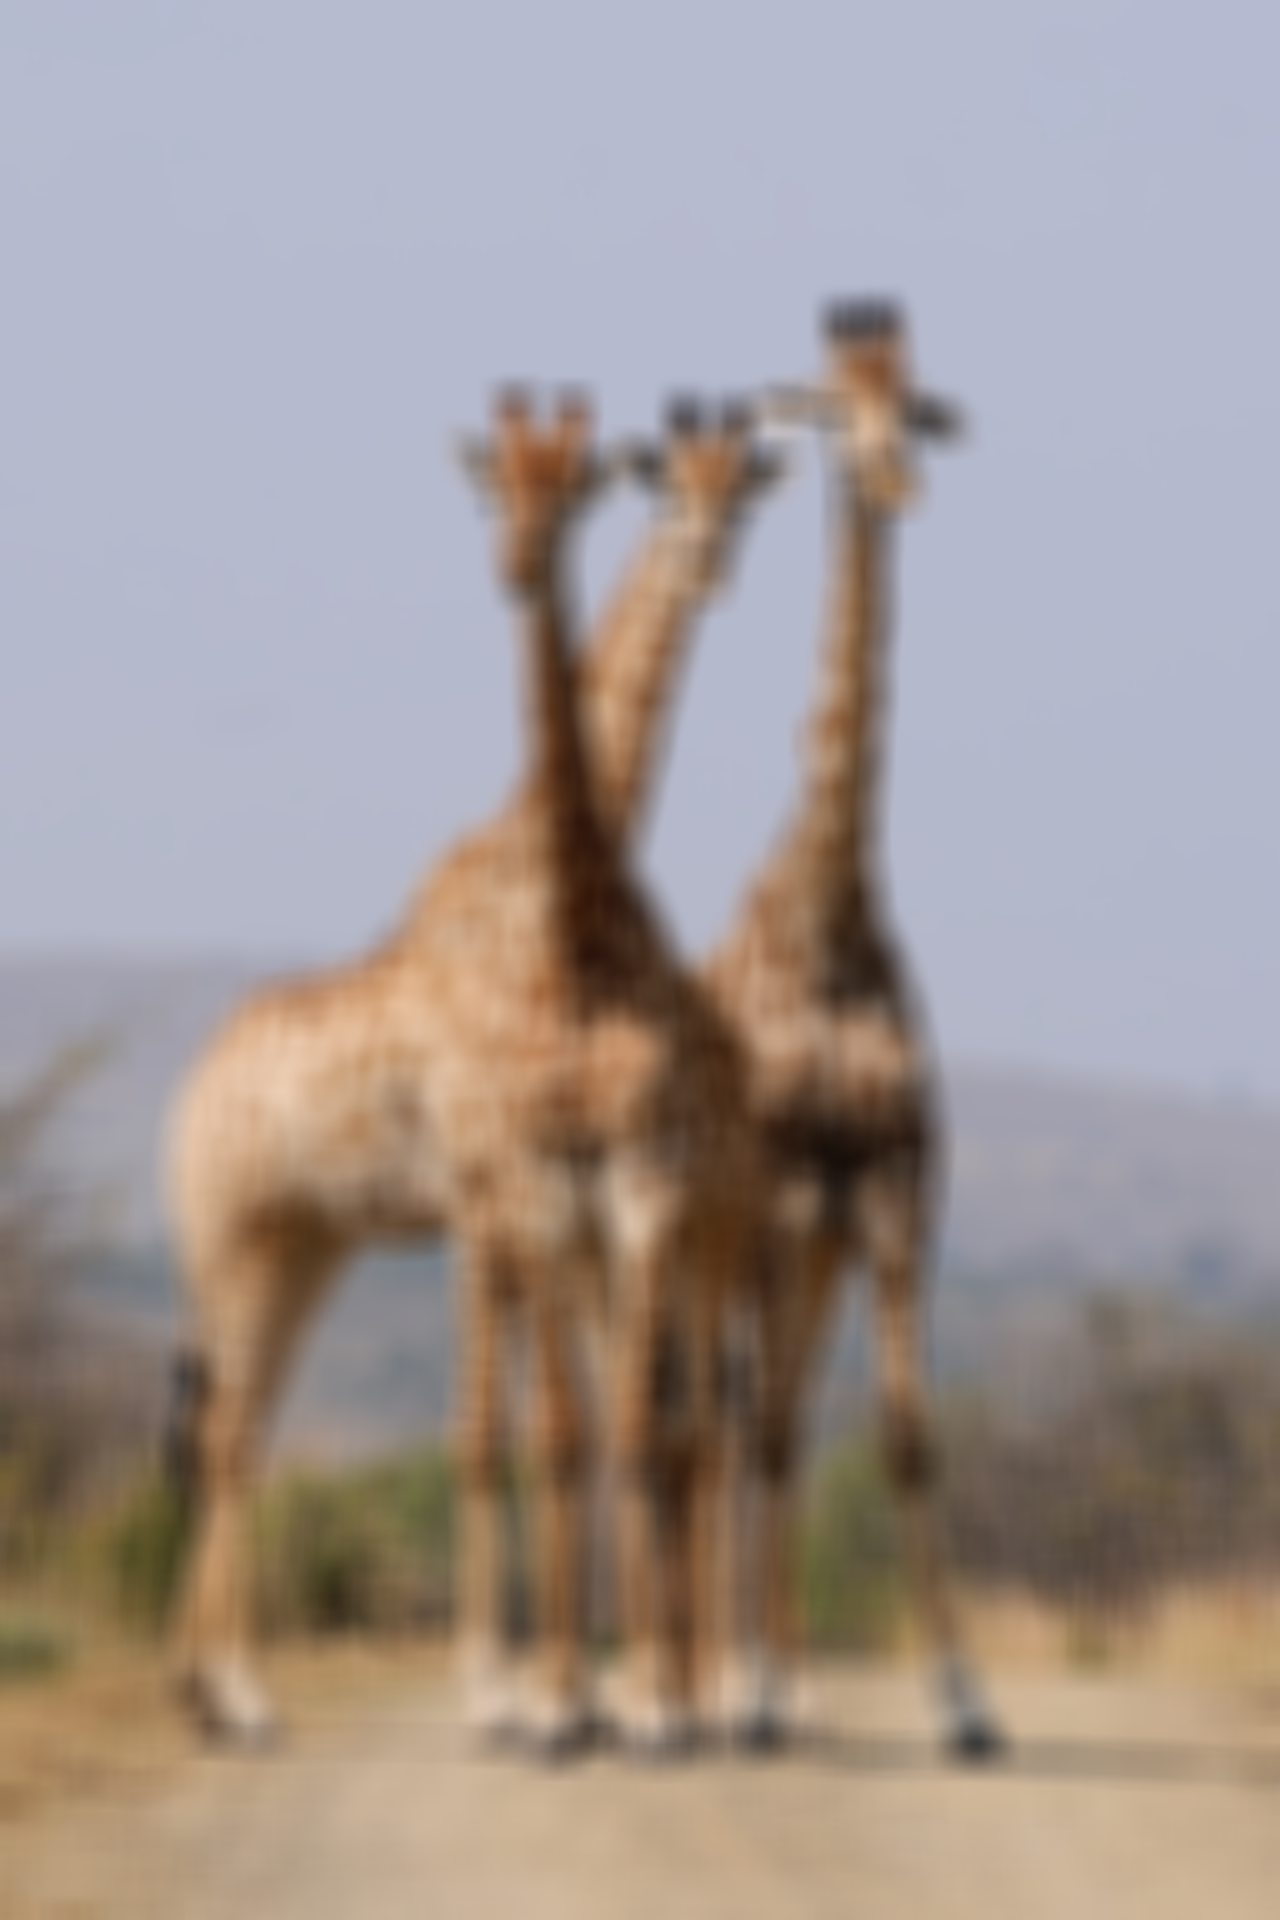
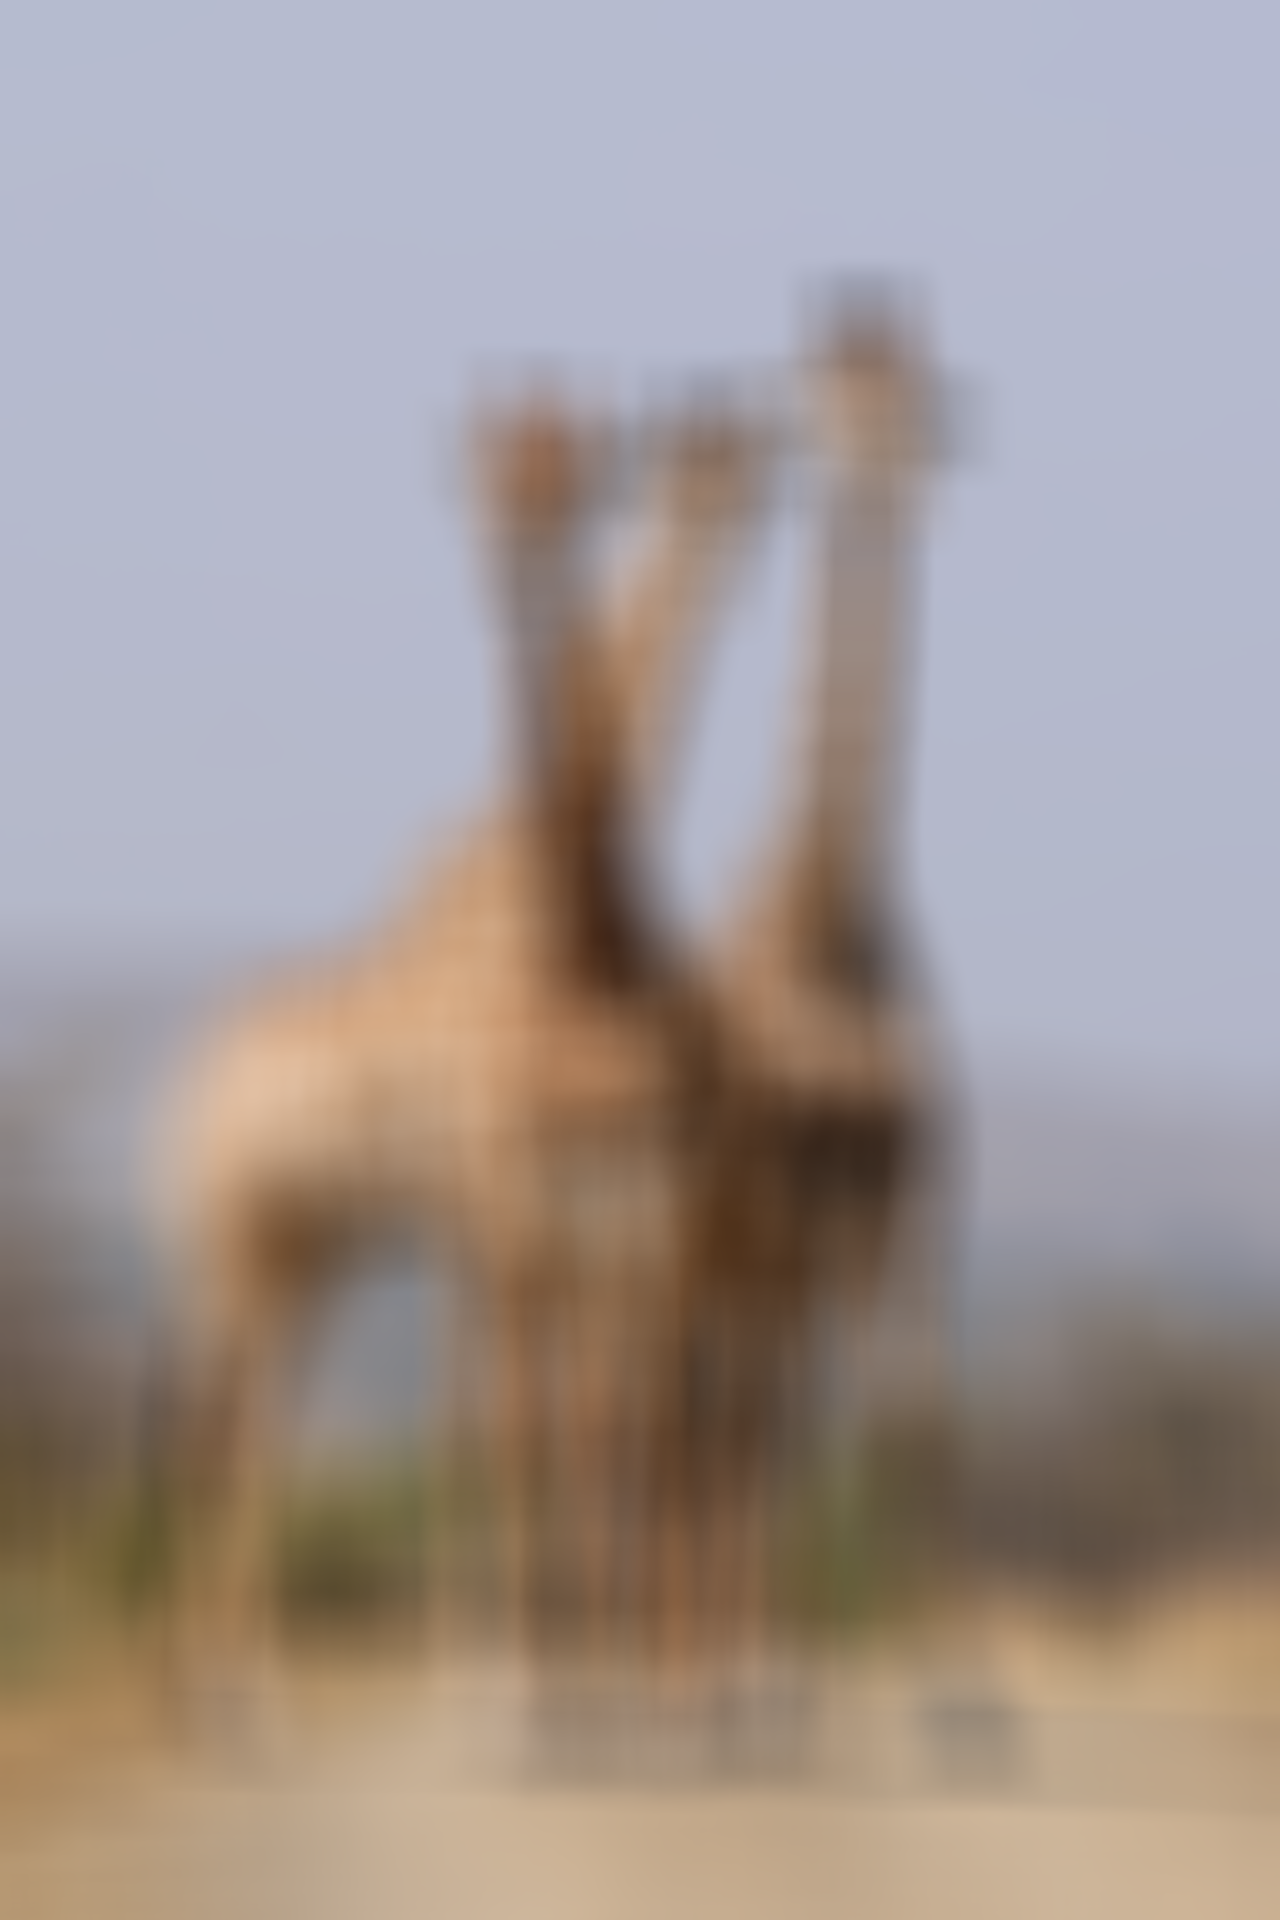
I adjusted the box blur image

diff --git a/main/Main.java b/main/Main.java
@@ -35,12 +35,12 @@ public class Main {
 				break;
 			case 1: {
 				// creating a boxMatrix for the box blur
-				double[][] boxMatrix = BoxBlur.getInstance().generateBoxMatrix(40);
+				double[][] boxMatrix = BoxBlur.getInstance().generateBoxMatrix(100);
 				BufferedImage boxBlurredImage = null;
 				try {
 					String filePath = "./giraffe.jpg";
 					BufferedImage source_image = ImageIO.read(new File(filePath));
-					boxBlurredImage = BoxBlur.getInstance().createBoxBlurredImage(source_image, boxMatrix, 40);
+					boxBlurredImage = BoxBlur.getInstance().createBoxBlurredImage(source_image, boxMatrix, 100);
 				} catch (IOException e) {
 					e.printStackTrace();
 				}
